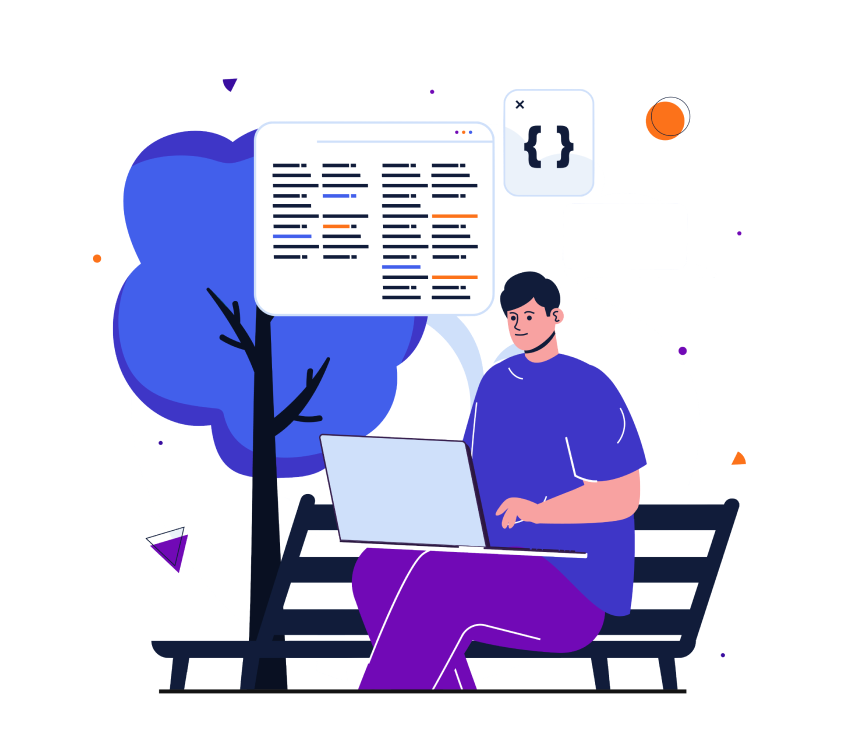
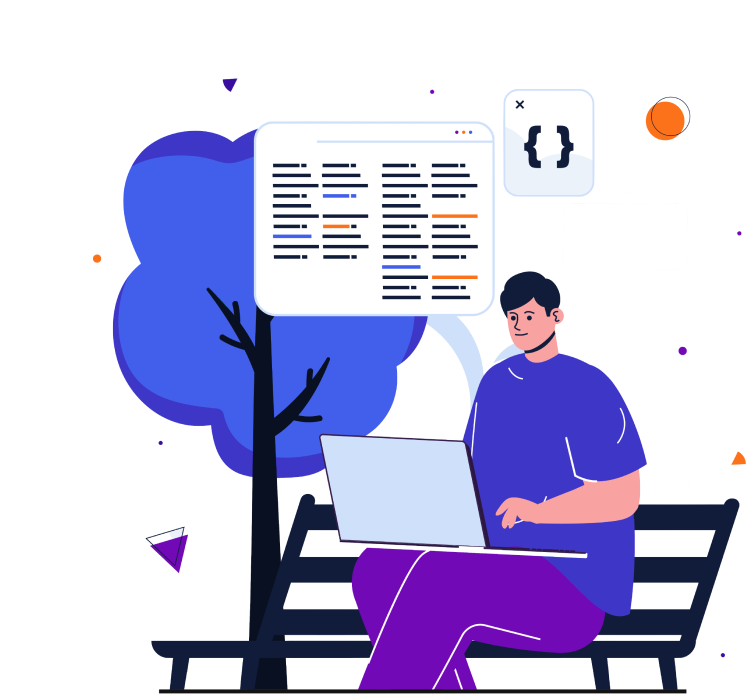
3frames

diff --git a/src/sections/EscapePlan.tsx b/src/sections/EscapePlan.tsx
@@ -3,27 +3,38 @@ import React from "react";
 
 const EscapePlan = () => {
     return (
-        <section className="EscapePlan">
-            <h1>How do you escape?</h1>
-            <h2>The solution to Tutorial Hell is simple: just build stuff.</h2>
-            <div>
-                <p>
-                    We get it though. When you’re in the early stages of your
-                    career, building alone is frustrating and defeating, and it
-                    can be challenging to come up with project ideas on your
-                    own.
-                </p>
-                <p>
-                    Our program helps you escape Tutorial Hell by giving you
-                    practical, hands-on programming experience while having the
-                    support of amazing mentors by your side.
-                </p>
-                <p>
-                    We remove the stress of coming up with project ideas by
-                    giving you meaningful projects specifically tailored to your
-                    skillset. Our projects have specific guidelines and learning
-                    objectives, so you can focus solely on building and learning
-                </p>
+        <section className="EscapePlan bg-lines bg-no-repeat bg-cover backdrop-blur-xl">
+            <div className="text-center">
+                <h1 className="primary_header text-6xl">How do you escape?</h1>
+                <br />
+                <h2 className="text-center text-3xl mb-6">
+                    The solution to Tutorial Hell is simple:{" "}
+                    <span className="relative before:bg-under_g before:absolute before:h-1 inline-block  before:-inset-1 before:top-10 before:rounded">
+                        just build stuff.
+                    </span>
+                </h2>
+                <br />
+                <div className="text-xl max-w-2xl mx-auto ">
+                    <p className="mb-12">
+                        We get it though. When you’re in the early stages of
+                        your career, building alone is frustrating and
+                        defeating, and it can be challenging to come up with
+                        project ideas on your own.
+                    </p>
+
+                    <p className="mb-12">
+                        Our program helps you escape Tutorial Hell by giving you
+                        practical, hands-on programming experience while having
+                        the support of amazing mentors by your side.
+                    </p>
+                    <p className="mb-12">
+                        We remove the stress of coming up with project ideas by
+                        giving you meaningful projects specifically tailored to
+                        your skillset. Our projects have specific guidelines and
+                        learning objectives, so you can focus solely on building
+                        and learning
+                    </p>
+                </div>
             </div>
         </section>
     );

diff --git a/src/sections/Stuck.tsx b/src/sections/Stuck.tsx
@@ -5,25 +5,44 @@ import React from "react";
 
 const Stuck = () => {
     return (
-        <section className="Stuck">
+        <section className="Stuck py-24">
             <div>
-                <h1>Are you stuck in Tutorial Hell?</h1>
-                <p>You watch a programming tutorial</p>
-                <div>
-                    <p>You lose all motivation and feel defeated and stuck</p>
-                    <Image
-                        src="/images/helloop.png"
-                        alt="helloop"
-                        width="300"
-                        height="300"
-                    />
-                    <p>You feel like you’re making incredible progress</p>
-                </div>
-                <p>
-                    You’re unable to actually build anything and become quickly
-                    overwhelmed and frustrated
+                <h1 className="primary_header text-6xl text-center">
+                    Are you stuck in Tutorial Hell?
+                </h1>
+                <br />
+                <br />
+                <p className="text-center text-xl">
+                    You watch a programming tutorial
                 </p>
-                <p>You attempt to build something on your own</p>
+                <br />
+                <br />
+                <div className="grid grid-cols-3 items-center text-center text-xl">
+                    <p className="grid-span-1 max-w-xs mx-auto">
+                        You lose all motivation and feel defeated and stuck
+                    </p>
+                    <div className="grid-span-1 flex justify-center ">
+                        <Image
+                            src="/images/helloop.png"
+                            alt="helloop"
+                            width="600"
+                            height="600"
+                        />
+                    </div>
+                    <p className="grid-span-1 max-w-xs mx-auto">
+                        You feel like you’re making incredible progress
+                    </p>
+                </div>
+                <div className="flex justify-evenly text-center text-xl">
+                    <p className="max-w-xs">
+                        You’re unable to actually build anything and become
+                        quickly overwhelmed and frustrated
+                    </p>
+
+                    <p className="max-w-xs ">
+                        You attempt to build something on your own
+                    </p>
+                </div>
             </div>
         </section>
     );

diff --git a/src/sections/Hero.tsx b/src/sections/Hero.tsx
@@ -4,22 +4,29 @@ import Image from "next/image";
 
 const Hero = () => {
     return (
-        <section className="Hero">
-            <div className="pl-4">
-                <div>
-                    <h1>Escape Tutorial Hell</h1>
-                    <p>
+        <section className="Hero pt-20 container mx-auto px-4">
+            <div className="grid grid-cols-2 ">
+                <div className="col-span-5 lg:col-span-1 ml-28">
+                    <h1 className="primary_header text-7xl lg:text-8xl leading-loose pr-20 pt-12">
+                        Escape Tutorial Hell
+                    </h1>
+                    <br />
+                    <p className=" text-2xl ">
                         Learn to independently build by completing real-world
                         projects with on-demand mentor guidance
                     </p>
-                    <button>Learn More</button>
+                    <br />
+                    <br />
+                    <button className="rounded bg-purple-600 px-5 py-2 hover:bg-purple-700 hover:scale-110 duration-300">
+                        Learn More
+                    </button>
                 </div>
-                <div>
+                <div className="col-span-1 flex justify-end ">
                     <Image
                         src={"/images/hero1.png"}
                         alt="Escape Tutorial Hero img"
-                        width="300"
-                        height="300"
+                        width={"700"}
+                        height={"650"}
                     />
                 </div>
             </div>

diff --git a/tailwind.config.js b/tailwind.config.js
@@ -1,18 +1,19 @@
 /** @type {import('tailwindcss').Config} */
 module.exports = {
-  content: [
-    './src/pages/**/*.{js,ts,jsx,tsx,mdx}',
-    './src/components/**/*.{js,ts,jsx,tsx,mdx}',
-    './src/app/**/*.{js,ts,jsx,tsx,mdx}',
-  ],
-  theme: {
-    extend: {
-      backgroundImage: {
-        'gradient-radial': 'radial-gradient(var(--tw-gradient-stops))',
-        'gradient-conic':
-          'conic-gradient(from 180deg at 50% 50%, var(--tw-gradient-stops))',
-      },
+    content: ["./src/**/*.{js,ts,jsx,tsx,mdx}"],
+    theme: {
+        extend: {
+            backgroundImage: {
+                "gradient-radial": "radial-gradient(var(--tw-gradient-stops))",
+                "gradient-conic":
+                    "conic-gradient(from 180deg at 50% 50%, var(--tw-gradient-stops))",
+                hero_img: "url(/images/hero1.png)",
+                stuck_bg: "url(/images/helloop.png)",
+                under_g:
+                    "linear-gradient(90deg, #7C3AED 1.61%, rgba(58, 255, 184, 0.6) 152.75%)",
+                lines: "url(/images/lines.png)",
+            },
+        },
     },
-  },
-  plugins: [],
-}
+    plugins: [],
+};

diff --git a/src/app/globals.css b/src/app/globals.css
@@ -19,5 +19,12 @@
 body {
     color: rgb(var(--foreground-rgb));
     background: url("/images/bg.png");
-    background-size: cover;
+    background-size: 100%;
+    background-attachment: fixed;
+}
+
+@layer components {
+    .primary_header {
+        @apply font-bold bg-clip-text text-transparent bg-gradient-to-r from-white to-white/40;
+    }
 }
